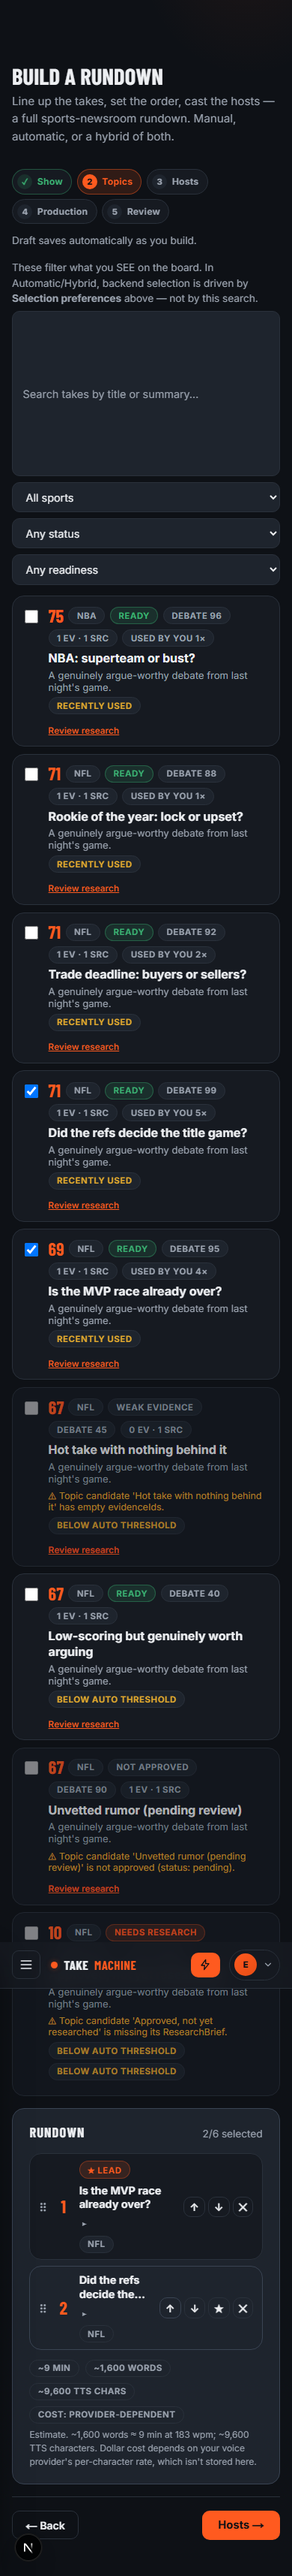
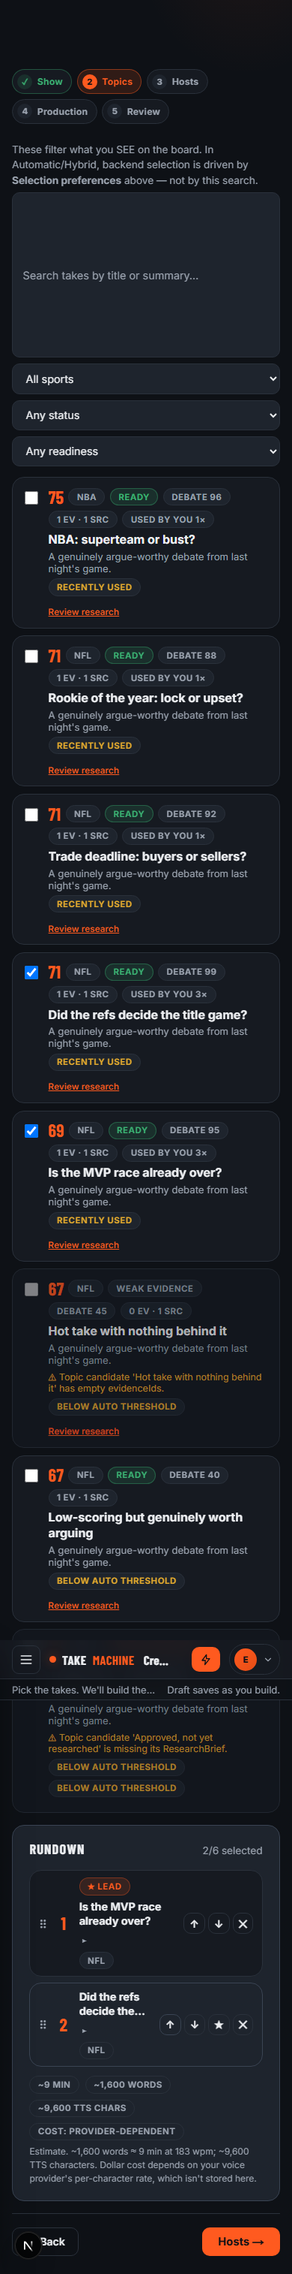
fix(studio): render header actions through a portal, not context
StudioPageHeader published `actions` and `status` through the same context as
the title, with both in the useEffect dependency array. A React element is a
fresh object on every render, so those deps never compared equal: publishing
re-rendered the shell, the shell re-rendered the page, the page built a new
element, and the effect fired again. An infinite render loop on every page
carrying `status` — which includes the create flow's save state.

Primitives (title/subtitle/breadcrumb) still travel through context, where deps
compare by value and publishing settles in one pass. Elements now portal into
shell-owned slots, which re-render with the page and cannot loop.

Also corrects docs/ux-audit/audit.md: it claimed studio-rundown.spec.ts still
passes 22/22. That figure was measured BEFORE the chrome work. The suite has not
been re-verified since, and the one attempt is inconclusive — two Playwright
harnesses ran concurrently over a shared fixed port and teardown, the embedded
Postgres was shut down mid-run, and the trailing failures carry the signature of
a dead database rather than a UI defect. Flagged as a merge blocker with the
command to re-run it alone.

diff --git a/src/app/studio/StudioPageHeader.tsx b/src/app/studio/StudioPageHeader.tsx
@@ -11,15 +11,30 @@
 // WHY A CLIENT COMPONENT: the title has to render inside the shell's topbar,
 // which is above the page in the tree, and RSC has no way to hand data upward.
 // A page (server component) renders <StudioPageHeader title="…" /> with plain
-// serializable props; this component publishes them to the shell's context.
-// `actions` and `status` accept ReactNode, which a server component may pass to
-// a client component — so server-rendered buttons still work.
+// serializable props. `actions` and `status` accept ReactNode, which a server
+// component may pass to a client component — so server-rendered buttons work.
+//
+// TWO DIFFERENT CHANNELS, DELIBERATELY:
+//
+//   · title/subtitle/breadcrumb are PRIMITIVES, published through context. The
+//     effect's dependencies compare by value, so publishing settles after one
+//     pass.
+//
+//   · actions/status are ELEMENTS, rendered through a PORTAL. They must not go
+//     through context: a React element is a fresh object on every render, so
+//     effect deps containing one never compare equal — publish re-renders the
+//     shell, the shell re-renders the page, the page builds a new element, and
+//     the effect fires again. That is an infinite render loop, and it hung
+//     every page carrying `status` (the create flow's save state) until this
+//     was split out. A portal re-renders with the page, touches no shell state,
+//     and cannot loop.
 //
 // The <h1> below is real, server-rendered, and visually hidden. The topbar's
 // visible title is a <div>, so the document always has exactly one h1 and it is
 // present on first paint rather than after hydration.
 
-import React, { useEffect, useId } from "react";
+import React, { useEffect, useId, useState } from "react";
+import { createPortal } from "react-dom";
 import { useStudioHeader, type StudioHeaderCrumb } from "./StudioShell";
 
 export interface StudioPageHeaderProps {
@@ -35,20 +50,43 @@ export interface StudioPageHeaderProps {
   status?: React.ReactNode;
 }
 
+/** Portals `children` into a shell-owned slot once that slot exists in the DOM. */
+function ChromeSlot({ slotId, children }: { slotId: string; children: React.ReactNode }) {
+  const [host, setHost] = useState<HTMLElement | null>(null);
+
+  // The slot is rendered by the shell, which is above this component in the
+  // tree, so it always exists by the time this effect runs. Resolving it in an
+  // effect (not during render) keeps the server and first client render
+  // identical, which is what stops a hydration mismatch.
+  useEffect(() => {
+    setHost(document.getElementById(slotId));
+  }, [slotId]);
+
+  if (!host || children === undefined || children === null) return null;
+  return createPortal(children, host);
+}
+
 export default function StudioPageHeader({ title, subtitle, breadcrumb, actions, status }: StudioPageHeaderProps) {
   const { setHeader } = useStudioHeader();
   // Identifies THIS header instance so a page unmounting after its successor
   // has mounted cannot blank the incoming title.
   const id = useId();
+  const crumbKey = JSON.stringify(breadcrumb ?? null);
 
   useEffect(() => {
-    setHeader({ id, title, subtitle, breadcrumb, actions, status });
+    setHeader({ id, title, subtitle, breadcrumb: breadcrumb ?? undefined });
     return () => setHeader({ id, clear: true });
-    // `actions`/`status` are elements recreated each render; including them
-    // would republish on every parent render. Their content is derived from
-    // the same data as `title`/`subtitle`, which are compared by value.
+    // `breadcrumb` is compared through crumbKey; including the array itself
+    // would republish on every parent render for the same reason `actions`
+    // cannot live here at all.
     // eslint-disable-next-line react-hooks/exhaustive-deps
-  }, [id, title, subtitle, JSON.stringify(breadcrumb), actions, status]);
+  }, [id, title, subtitle, crumbKey, setHeader]);
 
-  return <h1 className="srOnly">{title}</h1>;
+  return (
+    <>
+      <h1 className="srOnly">{title}</h1>
+      <ChromeSlot slotId="studio-topbar-actions">{actions}</ChromeSlot>
+      <ChromeSlot slotId="studio-subbar-status">{status}</ChromeSlot>
+    </>
+  );
 }

diff --git a/src/app/studio/StudioShell.tsx b/src/app/studio/StudioShell.tsx
@@ -14,12 +14,13 @@ import { logoutAction } from "@/lib/authActions";
  * ------------------------------------------------------------------ */
 export type StudioHeaderCrumb = { label: string; href: string };
 
+/** Only PRIMITIVES travel through context. Elements (actions/status) portal
+ *  into the slots below — see the note in StudioPageHeader for why mixing them
+ *  here produced an infinite render loop. */
 export interface StudioHeaderState {
   title?: string;
   subtitle?: string;
   breadcrumb?: StudioHeaderCrumb[];
-  actions?: React.ReactNode;
-  status?: React.ReactNode;
 }
 
 type HeaderPublish = StudioHeaderState & { id: string; clear?: boolean };
@@ -269,7 +270,7 @@ export default function StudioShell({ user, children }: { user?: ShellUser; chil
           </div>
 
           <div className="studioTopbarRight">
-            {header.actions ? <div className="studioTopbarActions">{header.actions}</div> : null}
+            <div className="studioTopbarActions" id="studio-topbar-actions" />
             {/* Below 720px .studioGenerateLabel is display:none and the icon is
                 aria-hidden, which left this link with NO accessible name at all
                 — axe reports it as a serious link-name violation on every
@@ -328,7 +329,7 @@ export default function StudioShell({ user, children }: { user?: ShellUser; chil
             or clear it. Subtitle left, page status (save state, counts) right. */}
         <div className="studioSubbar">
           <span className="studioSubbarText">{header.subtitle ?? ""}</span>
-          {header.status ? <span className="studioSubbarStatus">{header.status}</span> : null}
+          <span className="studioSubbarStatus" id="studio-subbar-status" />
         </div>
 
         <main className="studioMain">{children}</main>

diff --git a/docs/ux-audit/audit.md b/docs/ux-audit/audit.md
@@ -130,12 +130,38 @@ Postgres, seeded, authenticated through the UI — no Docker required).
 | No card over 32px vertical padding | ✅ |
 | No horizontal scroll | ✅ |
 | `.pageTitle`/`.pageSub` eliminated | ✅ |
-| Existing `studio-rundown.spec.ts` | ✅ **22/22 still pass** |
+| Existing `studio-rundown.spec.ts` | ⚠ **UNVERIFIED — see below** |
 | First control ≤160px | ⚠ **6/15** |
 | No inline styles | ❌ 437 remain |
 | No raw hex | ❌ 17 remain |
 
 `npx tsc --noEmit` clean. `npm run build` exits 0.
+
+### ⚠ The rundown regression suite is unverified
+
+`studio-rundown.spec.ts` passed 22/22 against `0d6d1ef` **before** any edit. It
+has **not** been re-verified against the chrome work, and it must be before this
+is merged.
+
+The last attempt is not evidence either way: two Playwright harnesses were run
+concurrently, and they share a fixed app port (3311) plus a global teardown that
+stops the embedded Postgres. The log shows `database system is shut down`
+part-way through, after which the remaining 14 tests fail in ~2.7s each — the
+signature of a dead database, not of a UI defect. Re-run it **alone**:
+
+```
+npx playwright test tests/e2e/studio-rundown.spec.ts --project=desktop
+```
+
+One known-real hazard was found and fixed while investigating, and it would
+have hung the create page outright: `StudioPageHeader` originally published
+`actions`/`status` through the same context as the title, with both in the
+`useEffect` dependency array. A React element is a fresh object every render, so
+the deps never compared equal — publish re-rendered the shell, the shell
+re-rendered the page, the page rebuilt the element, and the effect fired again.
+Those two props now render through a **portal** into shell-owned slots, which
+re-renders with the page and touches no shell state. Whether that was the *only*
+cause of the failures above is exactly what the clean re-run has to establish.
 
 `npm run lint` reports 1023 errors repo-wide — **all pre-existing**; the only two
 in files I touched (`StudioShell.tsx:186` setState-in-effect,
